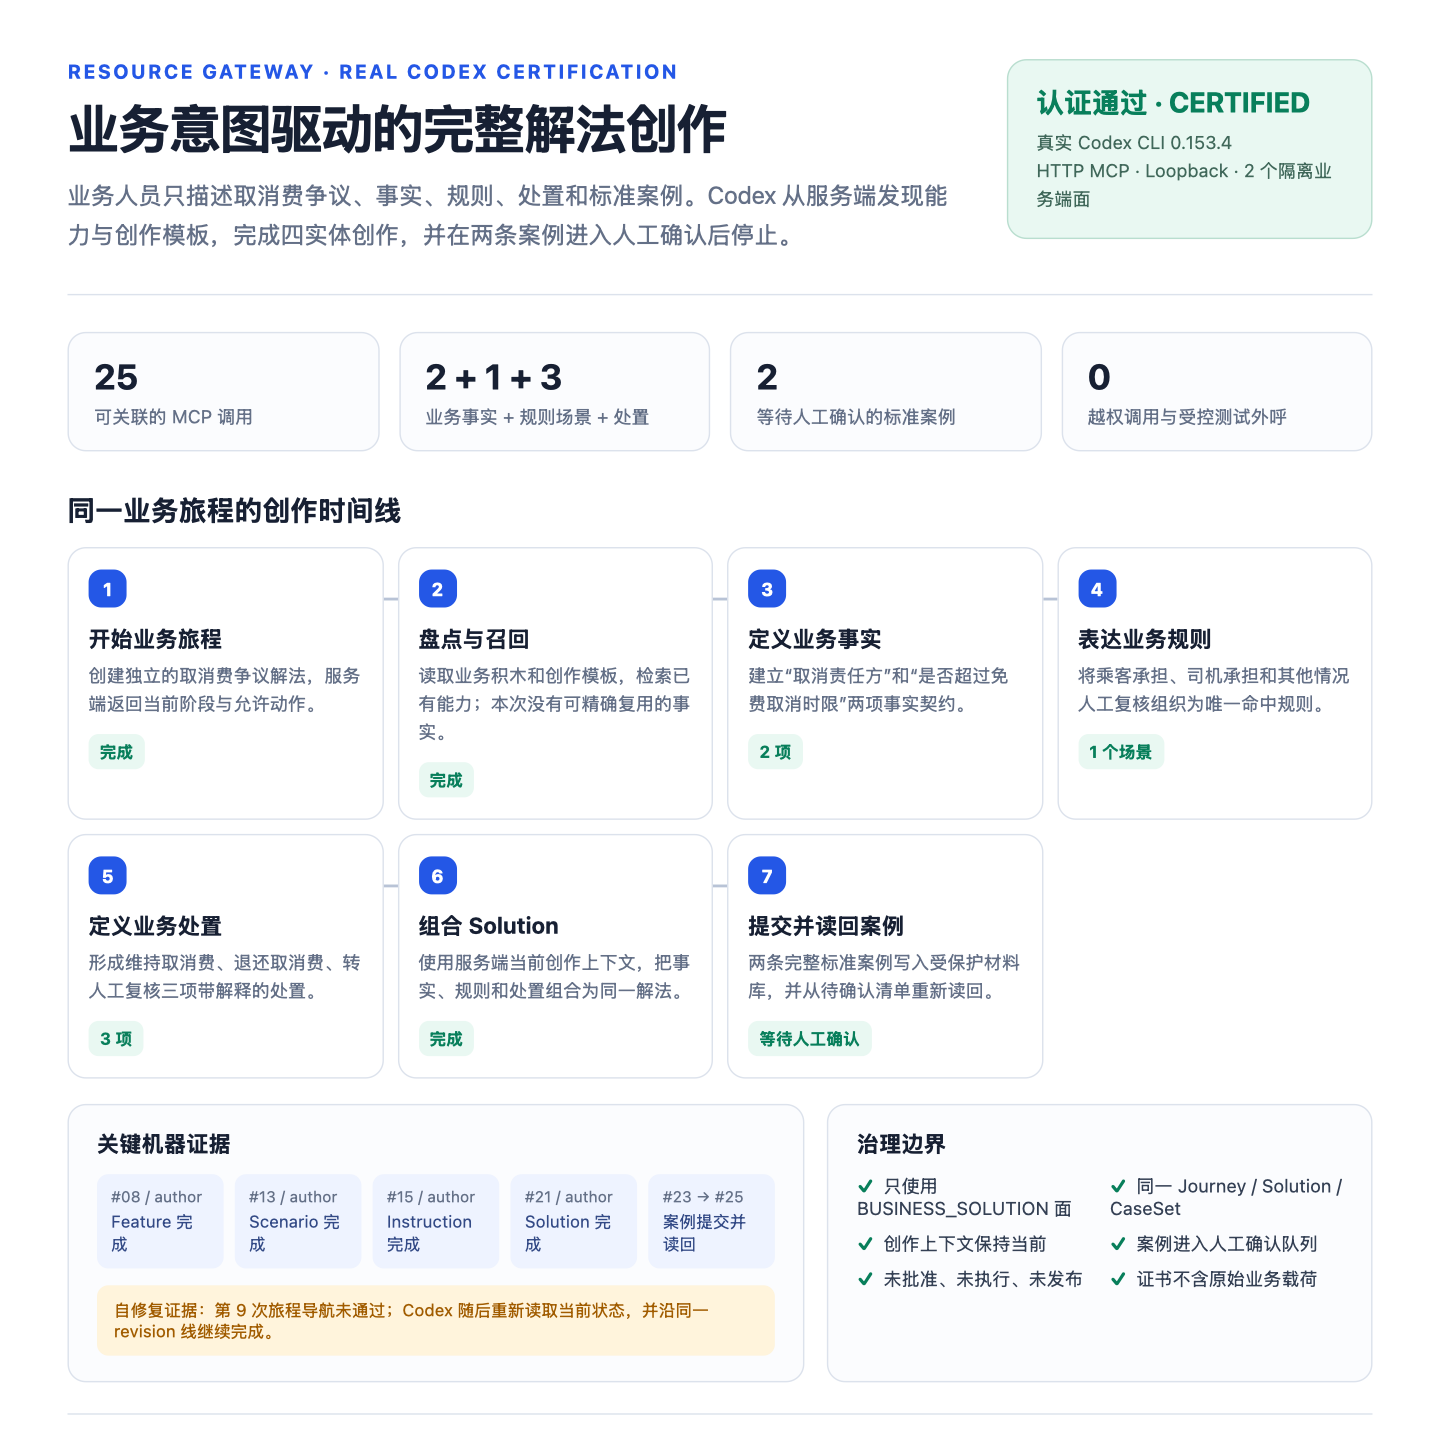
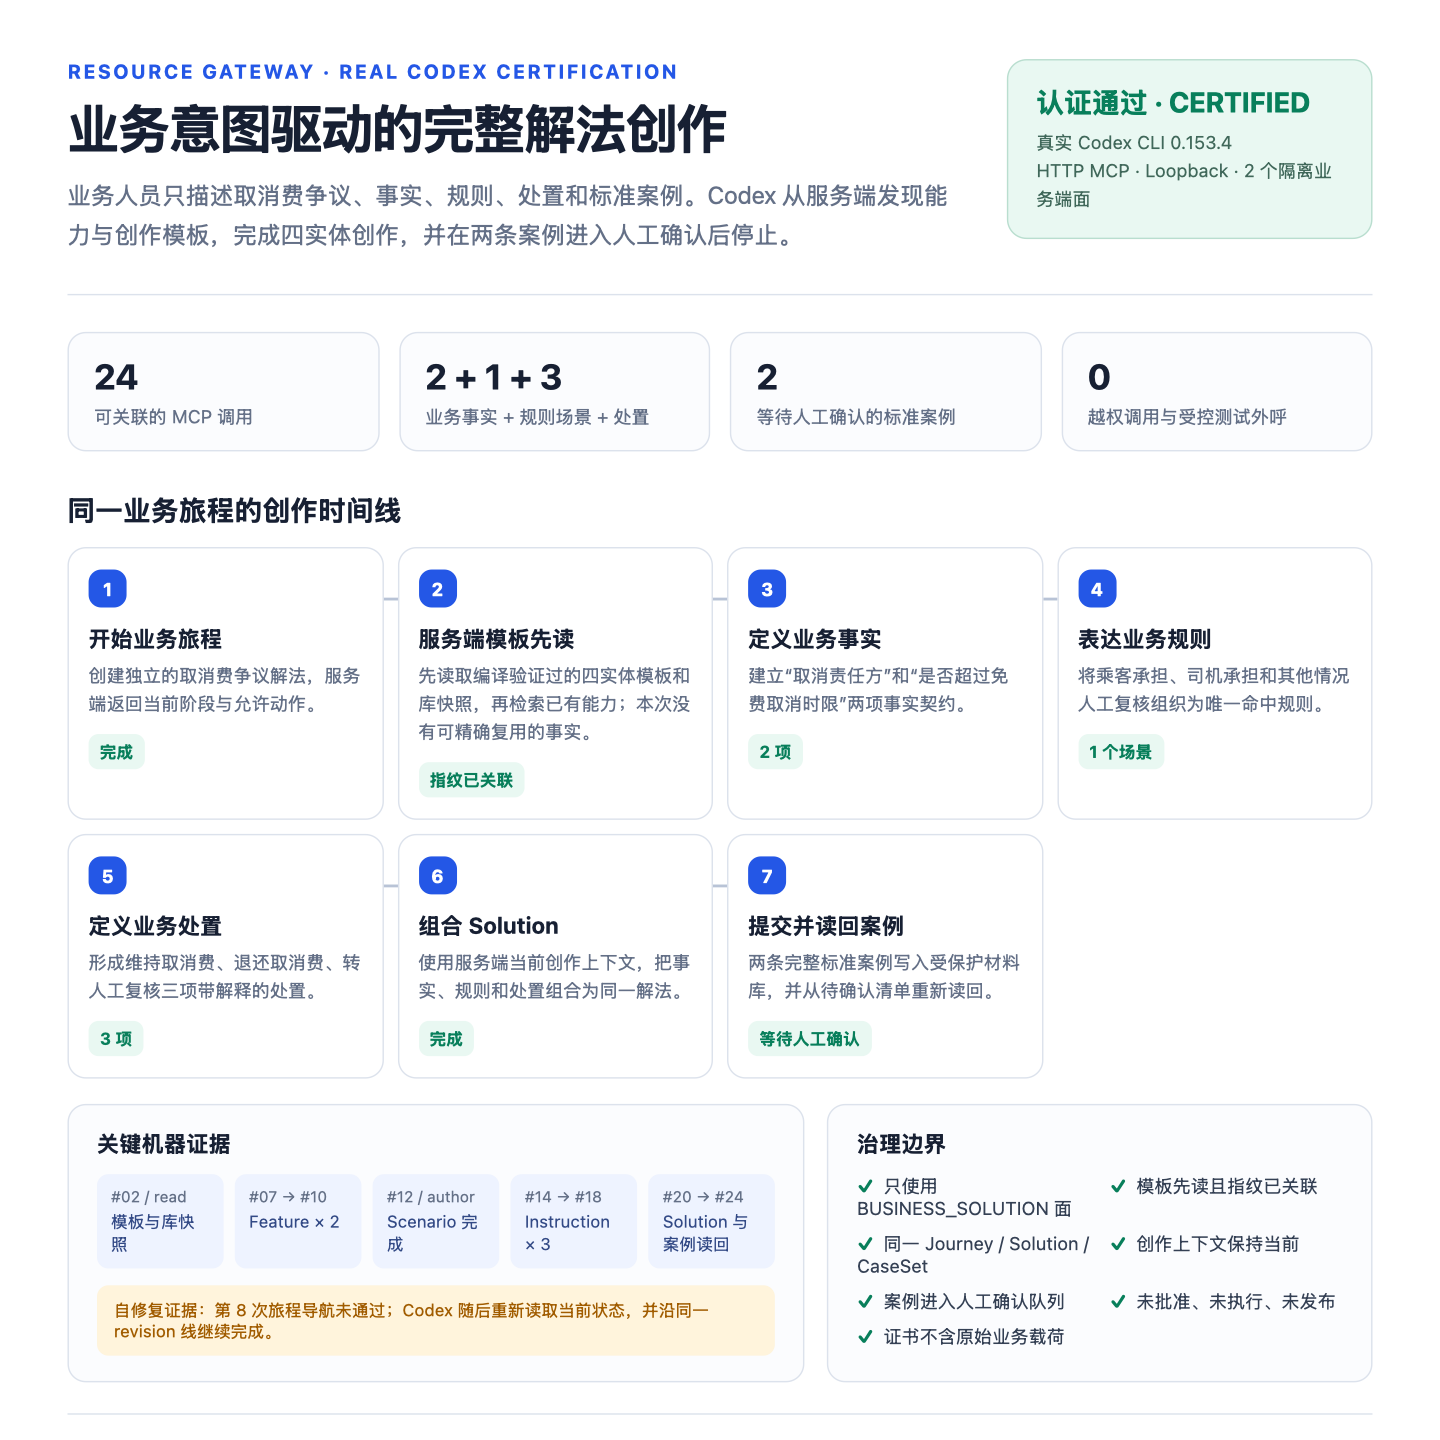
test(resource-gateway): retain template-bound Codex screenshots

diff --git a/docs/acceptance/agent-tdd/business-solution-codex-certification-v1.html b/docs/acceptance/agent-tdd/business-solution-codex-certification-v1.html
@@ -67,7 +67,7 @@
   </header>
 
   <section class="metrics">
-    <div class="metric"><b>25</b><span>可关联的 MCP 调用</span></div>
+    <div class="metric"><b>24</b><span>可关联的 MCP 调用</span></div>
     <div class="metric"><b>2 + 1 + 3</b><span>业务事实 + 规则场景 + 处置</span></div>
     <div class="metric"><b>2</b><span>等待人工确认的标准案例</span></div>
     <div class="metric"><b>0</b><span>越权调用与受控测试外呼</span></div>
@@ -76,7 +76,7 @@
   <h2>同一业务旅程的创作时间线</h2>
   <section class="timeline">
     <article class="step"><span class="num">1</span><h3>开始业务旅程</h3><p>创建独立的取消费争议解法，服务端返回当前阶段与允许动作。</p><span class="ok">完成</span></article>
-    <article class="step"><span class="num">2</span><h3>盘点与召回</h3><p>读取业务积木和创作模板，检索已有能力；本次没有可精确复用的事实。</p><span class="ok">完成</span></article>
+    <article class="step"><span class="num">2</span><h3>服务端模板先读</h3><p>先读取编译验证过的四实体模板和库快照，再检索已有能力；本次没有可精确复用的事实。</p><span class="ok">指纹已关联</span></article>
     <article class="step"><span class="num">3</span><h3>定义业务事实</h3><p>建立“取消责任方”和“是否超过免费取消时限”两项事实契约。</p><span class="ok">2 项</span></article>
     <article class="step"><span class="num">4</span><h3>表达业务规则</h3><p>将乘客承担、司机承担和其他情况人工复核组织为唯一命中规则。</p><span class="ok">1 个场景</span></article>
     <article class="step"><span class="num">5</span><h3>定义业务处置</h3><p>形成维持取消费、退还取消费、转人工复核三项带解释的处置。</p><span class="ok">3 项</span></article>
@@ -88,18 +88,19 @@
     <div class="panel">
       <h3>关键机器证据</h3>
       <div class="events">
-        <div class="event"><em>#08 / author</em>Feature 完成</div>
-        <div class="event"><em>#13 / author</em>Scenario 完成</div>
-        <div class="event"><em>#15 / author</em>Instruction 完成</div>
-        <div class="event"><em>#21 / author</em>Solution 完成</div>
-        <div class="event"><em>#23 → #25</em>案例提交并读回</div>
+        <div class="event"><em>#02 / read</em>模板与库快照</div>
+        <div class="event"><em>#07 → #10</em>Feature × 2</div>
+        <div class="event"><em>#12 / author</em>Scenario 完成</div>
+        <div class="event"><em>#14 → #18</em>Instruction × 3</div>
+        <div class="event"><em>#20 → #24</em>Solution 与案例读回</div>
       </div>
-      <div class="repair">自修复证据：第 9 次旅程导航未通过；Codex 随后重新读取当前状态，并沿同一 revision 线继续完成。</div>
+      <div class="repair">自修复证据：第 8 次旅程导航未通过；Codex 随后重新读取当前状态，并沿同一 revision 线继续完成。</div>
     </div>
     <div class="panel">
       <h3>治理边界</h3>
       <div class="checks">
         <div class="check">只使用 BUSINESS_SOLUTION 面</div>
+        <div class="check">模板先读且指纹已关联</div>
         <div class="check">同一 Journey / Solution / CaseSet</div>
         <div class="check">创作上下文保持当前</div>
         <div class="check">案例进入人工确认队列</div>
@@ -110,8 +111,8 @@
   </section>
 
   <footer>
-    <span>认证时间：2026-09-05 15:39:30 UTC · Commit <code>f378e5abcdd22ba538704348e143189f98757171</code></span>
-    <span>Certificate <code>sha256:afb9dd7972144954…58259af</code></span>
+    <span>认证时间：2026-09-05 16:07:01 UTC · Commit <code>2fd4a5440f639613d35909ce9cd46d20c714a299</code></span>
+    <span>Certificate <code>sha256:f5e85cad4a5811e…4796d47</code></span>
   </footer>
 </main>
 </body>

diff --git a/resource-gateway-examples/src/test/java/com/leanowtech/bloge/gateway/agenttdd/AgentTddCodexCertificationArtifactTest.java b/resource-gateway-examples/src/test/java/com/leanowtech/bloge/gateway/agenttdd/AgentTddCodexCertificationArtifactTest.java
@@ -157,8 +157,9 @@ class AgentTddCodexCertificationArtifactTest {
 
         String report = Files.readString(BUSINESS_REPORT, StandardCharsets.UTF_8);
         assertThat(report).contains(
-                certificate.path("repositoryCommit").asText(), "25", "2 + 1 + 3",
-                "两条完整标准案例", "未批准、未执行、未发布");
+                certificate.path("repositoryCommit").asText(), "24", "2 + 1 + 3",
+                "两条完整标准案例", "服务端模板先读", "指纹已关联",
+                "未批准、未执行、未发布");
         var screenshot = ImageIO.read(BUSINESS_SCREENSHOT.toFile());
         assertThat(screenshot).isNotNull();
         assertThat(screenshot.getWidth()).isEqualTo(1440);
